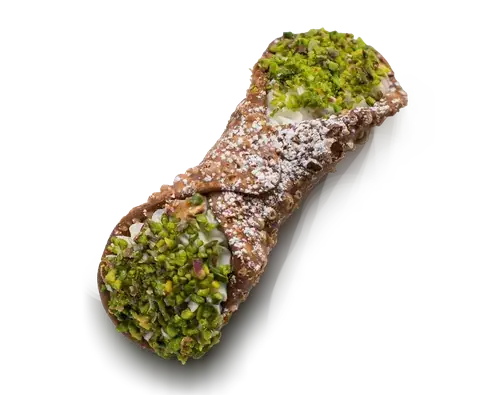
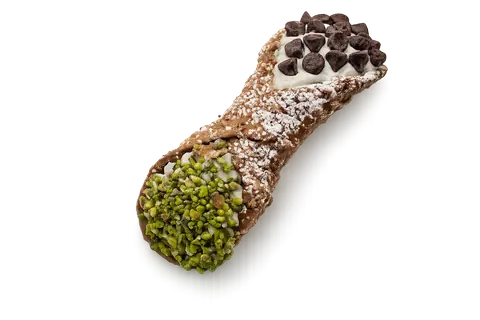
cannolo

Changed region(s): [[0.1875, 0.0312, 0.875, 1.0]]

diff --git a/utils/imageChanger/README.md b/utils/imageChanger/README.md
@@ -62,7 +62,7 @@ Genera `<nome>-thumb.webp` (600px) per tutte le immagini di gallery in una direc
 Salta automaticamente: `logo*`, `external*`, `internal*`, `favicon*`, e file già con suffisso `-thumb`, `-480`, `-640`, `-960`.
 
 ```bash
-python convert_to_webp.py --gallery-thumbs <PICS_DIR>
+python convert_to_webp.py -gallery-thumbs <PICS_DIR>
 python convert_to_webp.py --gallery-thumbs ../../v2/assets/pics/
 ```
 
